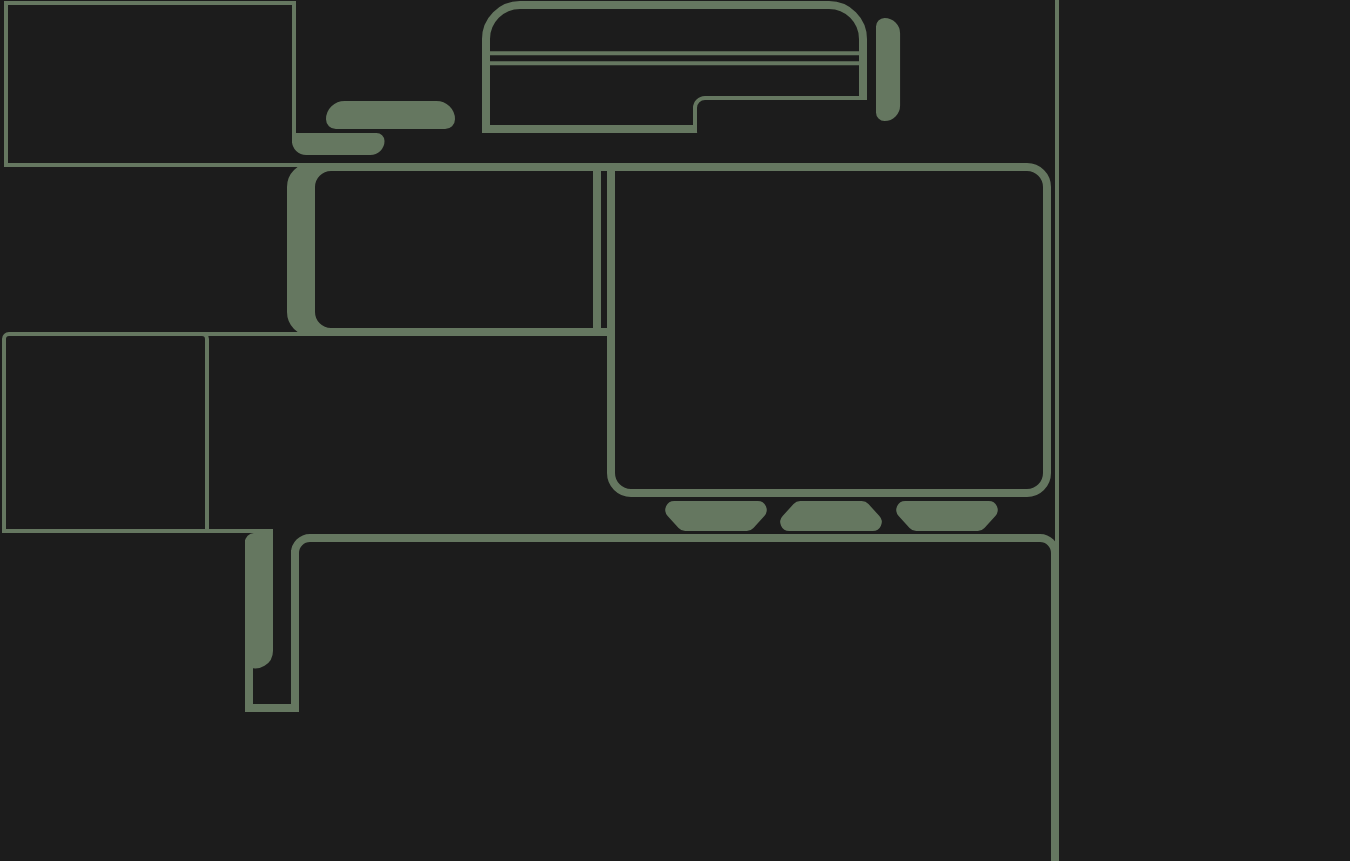
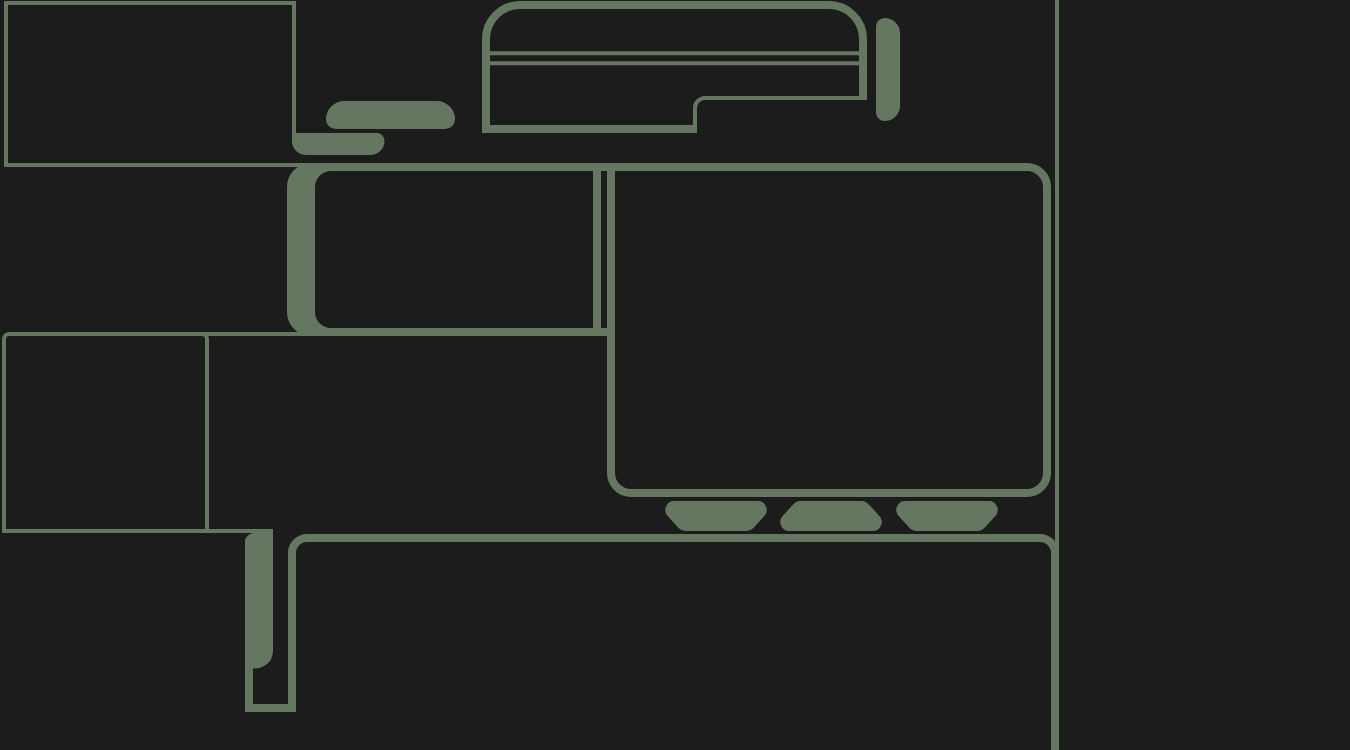
1.1.01 Patch
Fix for graphical bugs and minor errors

diff --git a/ARPGCA.py b/ARPGCA.py
@@ -6,6 +6,7 @@ import random
 import pygame
 import threading
 import os
+import sys
 import datetime
 
 class App:
@@ -23,6 +24,12 @@ class App:
         master.minsize(640,480)
         master.config(bg = aBlack)
 
+        if getattr(sys, 'frozen', False):
+            application_path = os.path.dirname(sys.executable)
+        elif __file__:
+            application_path = os.path.dirname(__file__)
+
+        os.chdir(application_path)
     #region Global Styles
         self.style = ttk.Style()
 
@@ -123,20 +130,20 @@ class App:
 
         ch_skill_img = PhotoImage(file = image_root + 'ch_skill_img.png')
 
-        death_bt_active = PhotoImage(file = image_root + 'death_bt_active.png')
-        death_bt_inactive = PhotoImage(file = image_root + 'death_bt_inactive.png')
-        panic_bt_active = PhotoImage(file = image_root + 'panic_bt_active.png')
-        panic_bt_inactive = PhotoImage(file = image_root + 'panic_bt_inactive.png')
-        end_panic_bt_active = PhotoImage(file = image_root + 'end_panic_bt_active.png')
-        end_panic_bt_inactive = PhotoImage(file = image_root + 'end_panic_bt_inactive.png')
-        push_bt_active = PhotoImage(file = image_root + 'push_bt_active.png')
-        push_bt_inactive = PhotoImage(file = image_root + 'push_bt_inactive.png')
-        resus_bt_active = PhotoImage(file = image_root + 'resus_bt_active.png')
-        resus_bt_inactive = PhotoImage(file = image_root + 'resus_bt_inactive.png')
-        trauma_bt_active = PhotoImage(file = image_root + 'trauma_bt_active.png')
-        trauma_bt_inactive = PhotoImage(file = image_root + 'trauma_bt_inactive.png')
-        inj_bt_active = PhotoImage(file = image_root + 'inj_bt_active.png')
-        inj_bt_inactive = PhotoImage(file = image_root + 'inj_bt_inactive.png')
+        death_bt_active = PhotoImage(file = image_root + 'death_bt_active2.png')
+        death_bt_inactive = PhotoImage(file = image_root + 'death_bt_inactive2.png')
+        panic_bt_active = PhotoImage(file = image_root + 'panic_bt_active2.png')
+        panic_bt_inactive = PhotoImage(file = image_root + 'panic_bt_inactive2.png')
+        end_panic_bt_active = PhotoImage(file = image_root + 'end_panic_bt_active2.png')
+        end_panic_bt_inactive = PhotoImage(file = image_root + 'end_panic_bt_inactive2.png')
+        push_bt_active = PhotoImage(file = image_root + 'push_bt_active2.png')
+        push_bt_inactive = PhotoImage(file = image_root + 'push_bt_inactive2.png')
+        resus_bt_active = PhotoImage(file = image_root + 'resus_bt_active2.png')
+        resus_bt_inactive = PhotoImage(file = image_root + 'resus_bt_inactive2.png')
+        trauma_bt_active = PhotoImage(file = image_root + 'trauma_bt_active2.png')
+        trauma_bt_inactive = PhotoImage(file = image_root + 'trauma_bt_inactive2.png')
+        inj_bt_active = PhotoImage(file = image_root + 'inj_bt_active2.png')
+        inj_bt_inactive = PhotoImage(file = image_root + 'inj_bt_inactive2.png')
 
 
 
@@ -157,7 +164,6 @@ class App:
         ttk.Button(top_menu, style = 'Alien.TButton', text = '  Motion Tracker  ', command = lambda: mt_start()).place(relx = 0.3, rely = 0.69, anchor = 'center')
         ttk.Button(top_menu, style = 'Alien.TButton', text = '   Dice  Roller   ', command = lambda: dr_start()).place(relx = 0.7, rely = 0.69, anchor = 'center')
         ttk.Button(top_menu, style = 'Alien.TButton', text = ' Character Sheets ', command = lambda: ch_start()).place(relx = 0.5, rely = 0.8, anchor = "center")
-        ttk.Button(top_menu, text = 'Shortcut', command = lambda: shortcut()).place(relx = 1, rely = 1, anchor = "se")
 
 #endregion
 
@@ -785,11 +791,6 @@ class App:
                 pass
     #endregion
 
-        def shortcut():
-            self.names_list = ['Micah']
-            open_char(0)
-
-
 ##--OPEN CHARACTER SHEET--##
         def open_char(num):
 
@@ -801,10 +802,15 @@ class App:
             with open('json\\character_sheets.json','r') as load_dict:
                 dict = json.load(load_dict)[name]
 
-            sheet = Toplevel(background=aBlack)
-            sheet.title(name)
-            sheet.geometry('1350x850+350+150')
-            sheet.resizable(False, False)
+            cs_top = Toplevel(background=aBlack)
+            cs_top.title(name)
+            cs_top.geometry('1354x754+350+150')
+            cs_top.resizable(True, True)
+            cs_top.minsize(width = 1354, height = 754)
+
+            sheet = ttk.Frame(cs_top, style = 'Alien.TFrame')
+            sheet.place(relx = 0.5, rely = 0.5, relheight=1, relwidth=1, anchor = 'center')
+            
 
             sheet_bg = ttk.Label(sheet, image = self.sheet_bg_normal)
             sheet_bg.place(x = 0, y = 0)
@@ -851,7 +857,7 @@ class App:
         #Make Stat Boxes
             def stat_box(key, type):
                 Stats[key][0] = ttk.Frame(sheet, style = 'Alien.TFrame')
-                ttk.Label(sheet, text = f'{key}', style = 'Inv.Alien.TLabel').place(x = Stats[key][2], y = Stats[key][3]-45, anchor = 'n')
+                ttk.Label(sheet, text = f'{key}', style = 'Inv.Alien.TLabel', font = ('Courier New', 10)).place(x = Stats[key][2], y = Stats[key][3]-45, anchor = 'n')
                 Stats[key][1] = ttk.Label(Stats[key][0], text = f'{dict[key]}', font = ('Courier New', 30, 'bold'), foreground = 'white', image=ch_skill_img, compound = 'center', background = aBlack)
                 if key not in ['Strength', 'Agility', 'Wits', 'Empathy']: 
                     ttk.Label(sheet, text = f'{dict[key]}', font = ('Courier New', 12), background = aBlack, foreground= 'white').place(x = Stats[key][2]-46, y = Stats[key][3]+14, anchor = 'center')
@@ -1131,6 +1137,8 @@ class App:
                 if death == True:
                     death_bt.config(image = death_bt_active)
                     death_bt.bind('<ButtonPress>', lambda event: rollqueue('Death', 'Death', mod = mod))
+                    
+                    sheet_bg.config(image = self.sheet_bg_death)
 
                     death_time.config(text = time)
                     death_freq.config(foreground='white')
@@ -1159,7 +1167,7 @@ class App:
             def pack_injuries():
                 for i, j in enumerate(self.injs):
                     INJS[i][0] = j
-                    INJS[i][1] = ttk.Entry(crit_frame, width = 20, style = 'Alien.TEntry', font = ('Courier New', 12))
+                    INJS[i][1] = ttk.Entry(crit_frame, width = 20, style = 'Alien.TEntry', font = ('Courier New', 11))
                     INJS[i][1].insert(0, self.injs[j][0])
                     INJS[i][1].config(state = DISABLED)
                     INJS[i][1].grid(row = i+1, column = 0, padx = 5)
@@ -1171,7 +1179,7 @@ class App:
 
                     #No recovery needed
                         if recov_num == 'null':
-                            INJS[i][2].config(text = 'Recover', command = lambda: heal_inj(i))
+                            INJS[i][2].config(text = 'Recover', command = lambda index = i: heal_inj(index))
 
                     #Permanent injuries have no recovery
                         elif recov_num == 'Permanent':
@@ -1213,12 +1221,14 @@ class App:
                 elif days > 0:
                     INJS[index][2].config(text = f'{days} Days', command = lambda: heal_countdown(days, index, inj_num))
                 elif days <= 0:
-                    INJS[index][2].config(text = 'Recover', command = lambda: heal_inj(index))
+                    INJS[index][2].config(text = 'Recover', command = lambda i = index: heal_inj(i))
                 self.injs[inj_num][5] = days
                 update_sheet()
 
         #Fully Heal
             def heal_inj(index):
+                print(index)
+                print(INJS[index][0])
                 self.injs.pop(INJS[index][0])
                 INJS[index][1].destroy()
                 INJS[index][2].destroy()
@@ -1447,7 +1457,7 @@ class App:
                 self.roll_nm.destroy()
                 self.dice_frame = ttk.Frame(frame, style = 'Dice.TFrame')
                 self.dice_frame.pack()
-                self.dice_label = ttk.Label(self.dice_frame, text = f'{key.upper()} ROLL', style =  'NewChar.Alien.TLabel')
+                self.dice_label = ttk.Label(self.dice_frame, text = f'{key.upper()} ROLL', style =  'NewChar.Alien.TLabel', background = '#182318')
                 self.dice_label.grid(row = 0, columnspan=12)
 
                 #Gatekeep: Synths can't push
@@ -1755,11 +1765,12 @@ class App:
         #Display the Dice
             def display_dice(list):
                 for i, dice in enumerate(list):
-                    ttk.Label(self.dice_frame, image = dicedict[dice], background = '#182318').grid(row = (i // 12)+1, column = i % 12)
+                    ttk.Label(self.dice_frame, image = dicedict[dice], background = '#182318').grid(row = (i // 13)+1, column = i % 13)
 
                 now = datetime.datetime.now()
                 time = now.strftime("Rolled on %m/%d/%Y, at %H:%M:%S")
-                ttk.Label(sheet, text = time, style = 'White.TLabel', background = '#182318').place(x = 320, y = 740, anchor = 'sw')
+                stamp = ttk.Label(sheet, text = time, style = 'White.TLabel', background = '#182318')
+                stamp.place(x = 320, y = 550, anchor = 'nw')
 
         #Deactivate Death Roll Button
             def deactivate_death():
@@ -1771,6 +1782,9 @@ class App:
 
                 death_time.config(text = '')
                 death_freq.config(foreground='#555555')
+
+                
+                sheet_bg.config(image = self.sheet_bg_normal)
 
     #Variables
         #region HEALTH BAR
@@ -2038,7 +2052,7 @@ class App:
     #Widgets
         #region SHEET FRAMES
             self.roll_frame = ttk.Frame(sheet, style = 'Dice.TFrame')
-            self.roll_frame.place(x = 305, y = 550, width = 740, height = 250, anchor = 'nw')
+            self.roll_frame.place(x = 305, y = 545, width = 740, height = 150, anchor = 'nw')
 
             self.dice_frame = ttk.Frame(self.roll_frame, style = 'Dice.TFrame')
             self.dice_label = ttk.Label(self.dice_frame, style = 'Dice.TFrame')
@@ -2124,7 +2138,7 @@ class App:
             ttk.Label(gear_frame, text = 'Gear', style = 'Inv.Alien.TLabel').grid(row = 0, sticky = 'w')
             ttk.Label(gear_frame, text = 'Weight', style = 'Inv.Alien.TLabel').grid(row = 0, column = 1)
             for g in GEAR:
-                GEAR[g][0] = ttk.Entry(gear_frame, foreground = 'Black', style = 'Alien.TEntry', font = ('Courier New', 12))
+                GEAR[g][0] = ttk.Entry(gear_frame, foreground = 'Black', style = 'Alien.TEntry', font = ('Courier New', 11))
                 GEAR[g][0].grid(row = g+1, column = 0, padx = 2, pady = 2)
                 GEAR[g][0].insert(0,dict['Gear'][g][0])
                 GEAR[g][0].config(state = DISABLED)
@@ -2153,10 +2167,10 @@ class App:
 
         #region NOTES
             notes_frame = ttk.Frame(sheet, style = 'Alien.TFrame')
-            notes_frame.place(x = 1200, y = 510, anchor = 'n')
+            # notes_frame.place(x = 1200, y = 510, anchor = 'n')
 
             ttk.Label(notes_frame, text = 'Notes', style = 'Inv.Alien.TLabel').grid(row = 14, column = 0, sticky = 'w')
-            self.notes = Text(notes_frame, width = 34, height = 17, wrap='word')
+            self.notes = Text(notes_frame, width = 34, height = 11, wrap='word')
             self.notes.grid(row = 15, column = 0, columnspan= 2)
             self.notes.insert("1.0", dict['Notes'])
             self.notes.config(state = 'disabled')
@@ -2272,7 +2286,9 @@ class App:
         #region CRITICAL INJURIES
 
             crit_frame = ttk.Frame(sheet, style = 'Alien.TFrame')
-            crit_frame.place(x = 5, y = 720)
+            crit_frame.place(x = 1200, y = 510, anchor = 'n')
+            
+            # notes_frame.place(x = 5, y = 720)
 
             ttk.Label(crit_frame, text = 'Critical Injuries', style = 'Inv.Alien.TLabel').grid(row = 0, column = 0)
 
@@ -2366,7 +2382,7 @@ class App:
             tal_frame.place(x = 910, y = 10)
 
             ttk.Label(tal_frame, text = 'Talents', style = 'Inv.Alien.TLabel').pack(padx = 5, anchor = 'w')
-            tal = Text(tal_frame, width = 16, height = 8)
+            tal = Text(tal_frame, width = 16, height = 7)
             tal.pack(padx = 5, pady = 5)
             for t in dict['Talents']:
                 i = dict['Talents'].index(t)
@@ -2377,34 +2393,34 @@ class App:
 
         #region DICE BUTTONS
             panic_bt = ttk.Label(sheet, image = panic_bt_inactive, background = aBlack)
-            panic_bt.place(x = 303, y = 748)
+            panic_bt.place(x = 303, y = 679)
 
             push_bt = ttk.Label(sheet, image = push_bt_inactive, background = aBlack)
-            push_bt.place(relx = 0.5,y = 748, anchor = 'n')
+            push_bt.place(relx = 0.5,y = 679, anchor = 'n')
 
             crit_bt = ttk.Label(sheet, image = inj_bt_inactive, background = aBlack)
-            crit_bt.place(x = 1048, y = 748, anchor = 'ne')
+            crit_bt.place(x = 1048, y = 679, anchor = 'ne')
 
             end_panic_bt = ttk.Label(sheet, image = end_panic_bt_inactive, background = aBlack)
-            end_panic_bt.place(x = 303, y = 800)
+            end_panic_bt.place(x = 303, y = 715)
             if self.panic > 0:
                 end_panic_bt.config(image = end_panic_bt_active)
                 end_panic_bt.bind('<ButtonPress>', lambda event: panic_end())
 
             death_bt = ttk.Label(sheet, image = death_bt_inactive, background= aBlack)
-            death_bt.place(x = 430, y = 800)
+            death_bt.place(x = 430, y = 715)
 
-            death_freq = ttk.Label(sheet, text = 'Frequency', foreground = '#555555', style = 'Inv.Alien.TLabel')
-            death_freq.place(x = 685, y = 802)
-            death_time = ttk.Label(sheet, style = 'Inv.Alien.TLabel')
-            death_time.place(x = 685, y = 822)
+            death_freq = ttk.Label(sheet, text = 'Frequency', foreground = '#555555', style = 'Inv.Alien.TLabel', font = ('Courier New', 10))
+            death_freq.place(x = 685, y = 715)
+            death_time = ttk.Label(sheet, style = 'Inv.Alien.TLabel', font = ('Courier New', 10))
+            death_time.place(x = 685, y = 732)
 
             resus_bt = ttk.Label(sheet, image = resus_bt_inactive, background = aBlack)
-            resus_bt.place(x = 923, y = 800, anchor = 'ne')
+            resus_bt.place(x = 923, y = 715, anchor = 'ne')
 
-            
             trauma_bt = ttk.Label(sheet, image = trauma_bt_inactive, background = aBlack)
-            trauma_bt.place(x = 1050, y = 800, anchor = 'ne')
+            trauma_bt.place(x = 1050, y = 715, anchor = 'ne')
+
     #Called Functions
             pack_injuries()
         #endregion
